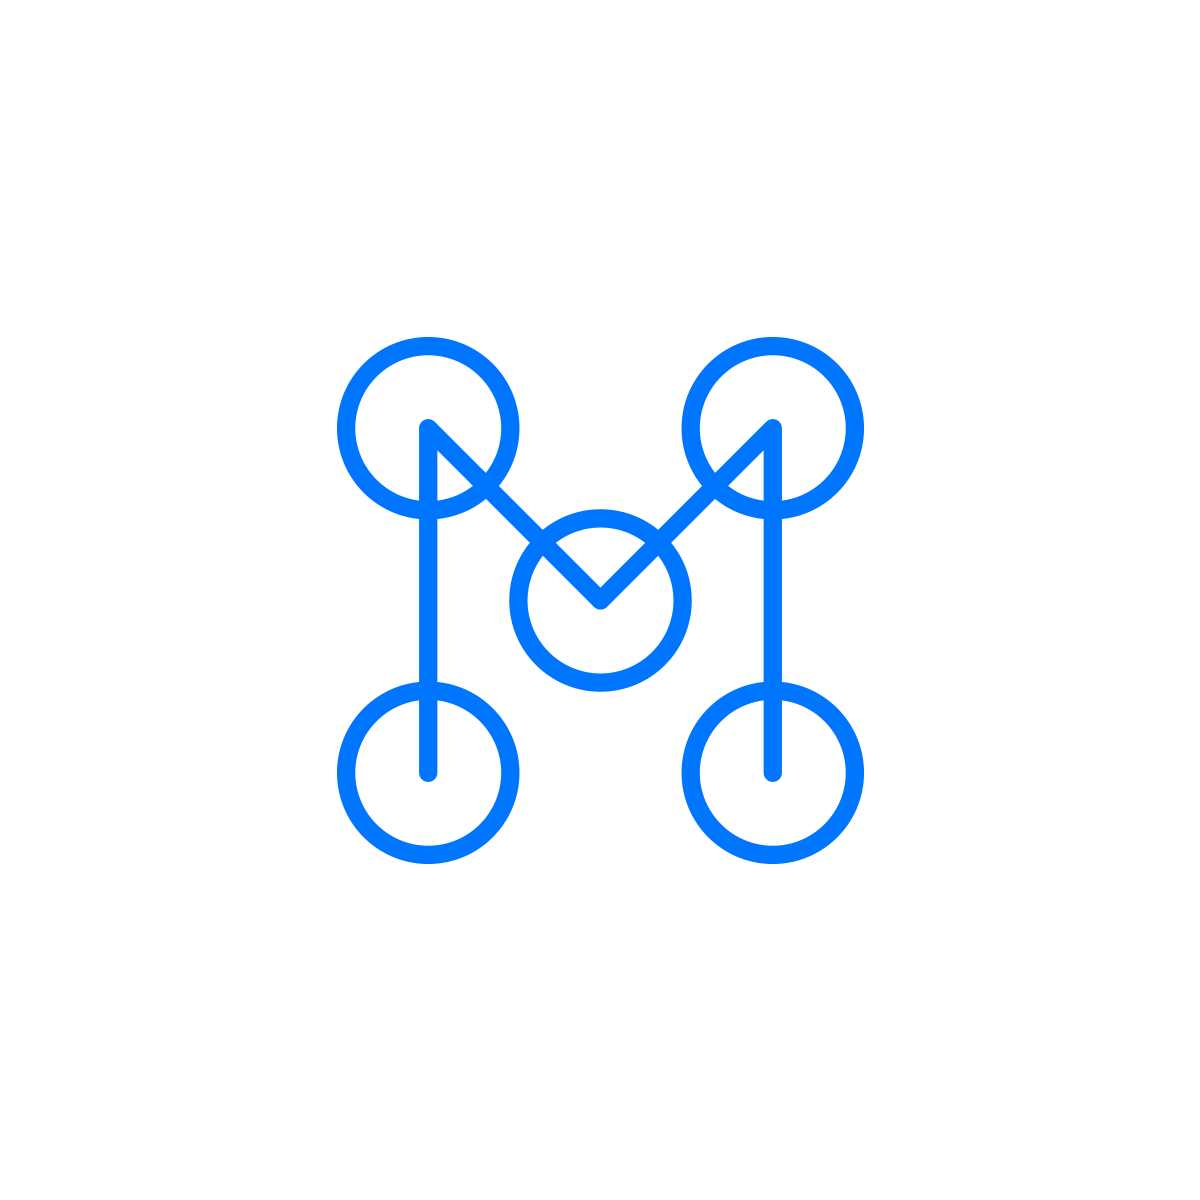
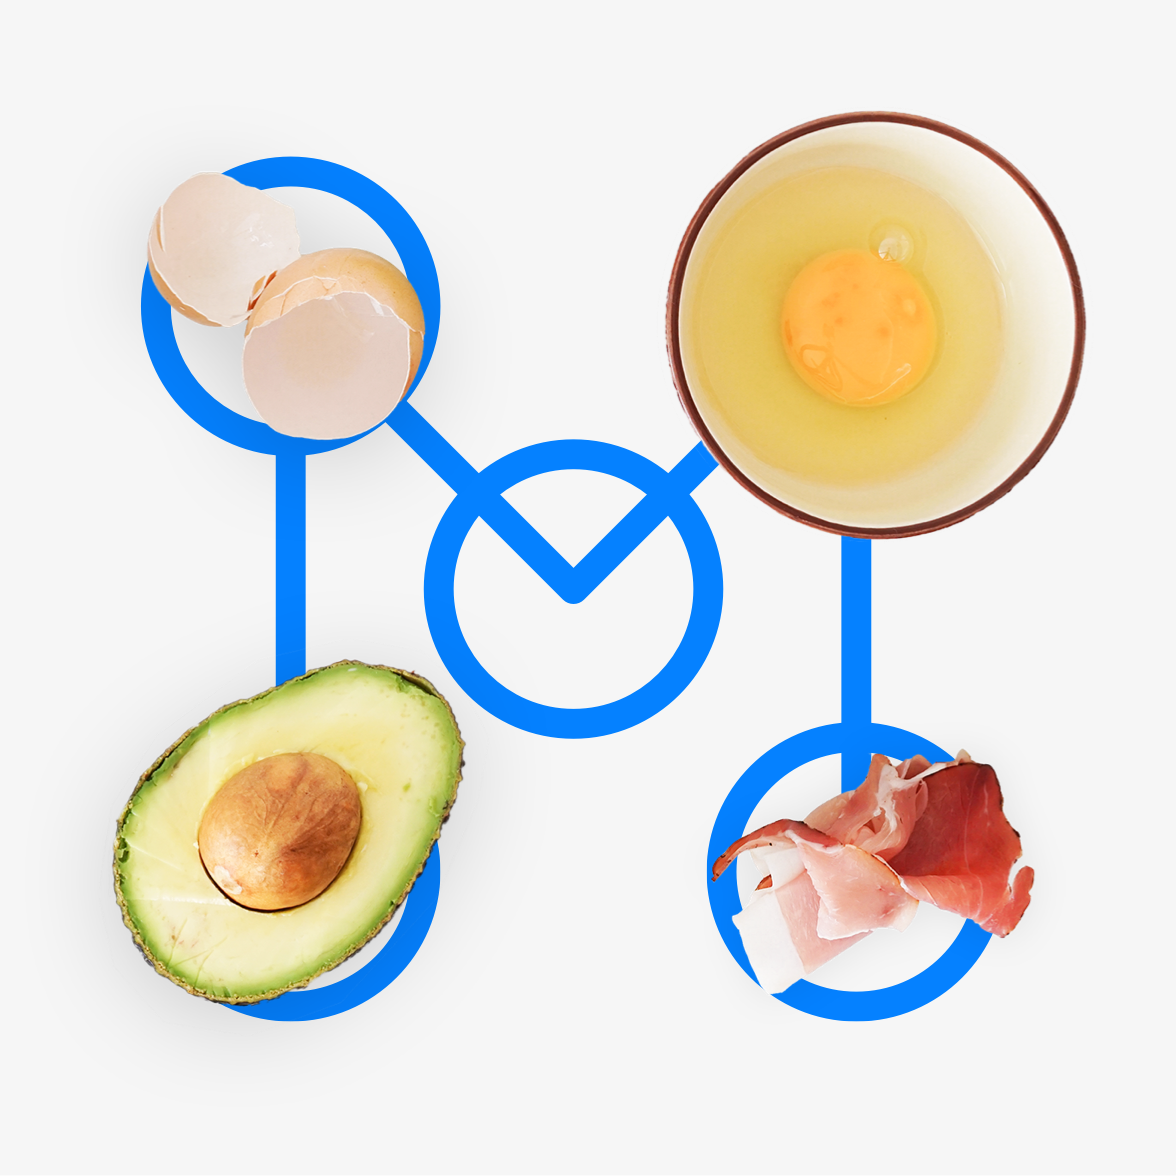
New og image, fix scrollbars

diff --git a/app/assets/stylesheets/_tabs.scss b/app/assets/stylesheets/_tabs.scss
@@ -17,9 +17,10 @@
   padding: 0;
 
   @include media($tab-mode) {
-    overflow-x: scroll;
-    overflow-y: visible;
+    overflow-x: auto;
+    overflow-y: hidden;
     white-space: nowrap;    
+    min-height:51px;
 
     &:before {
       content:"";
